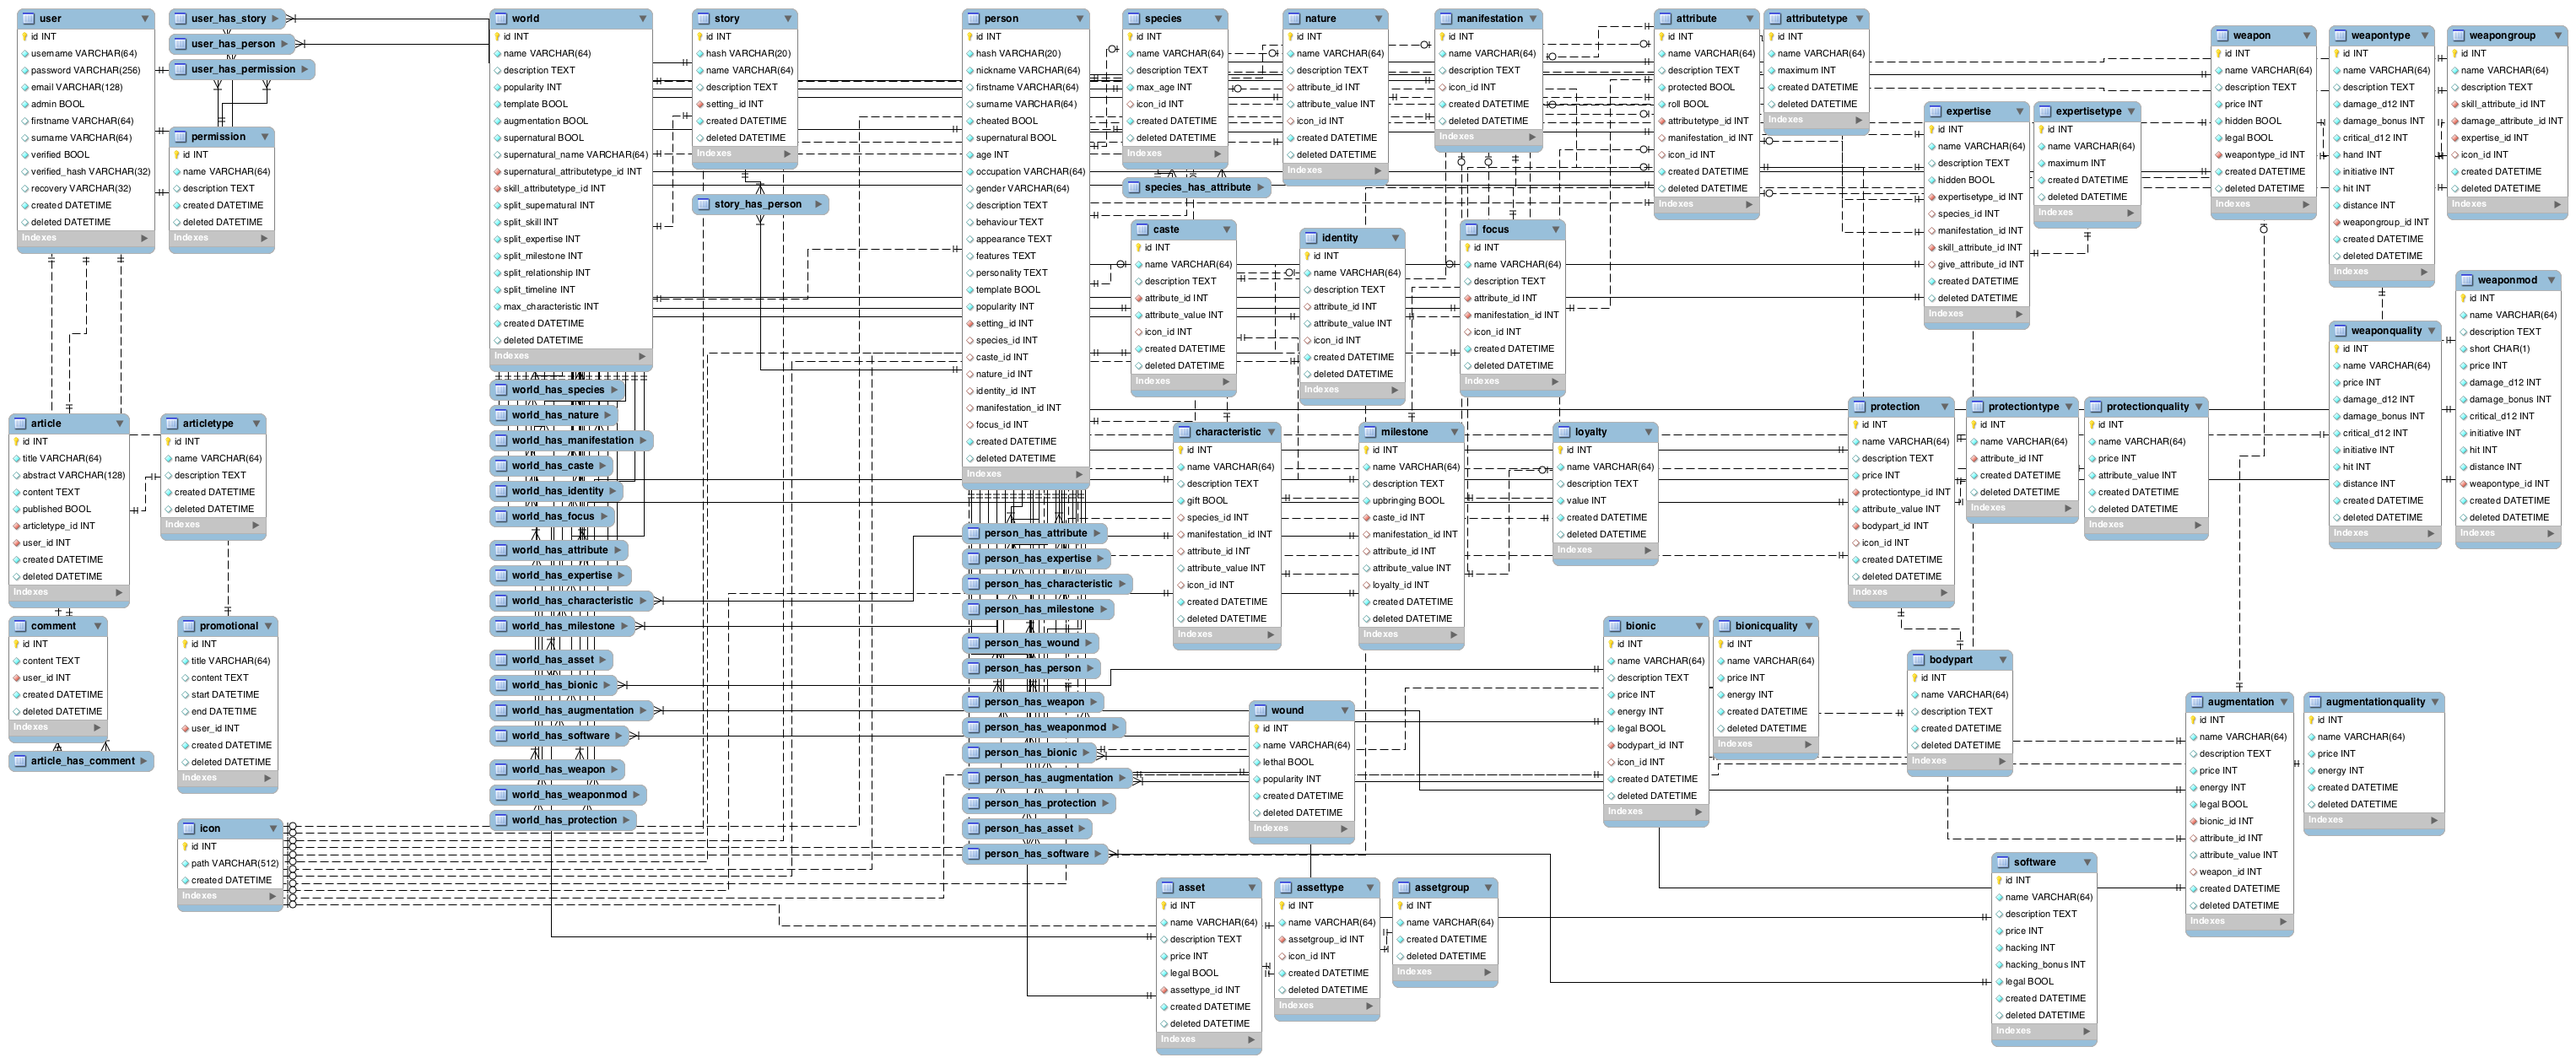
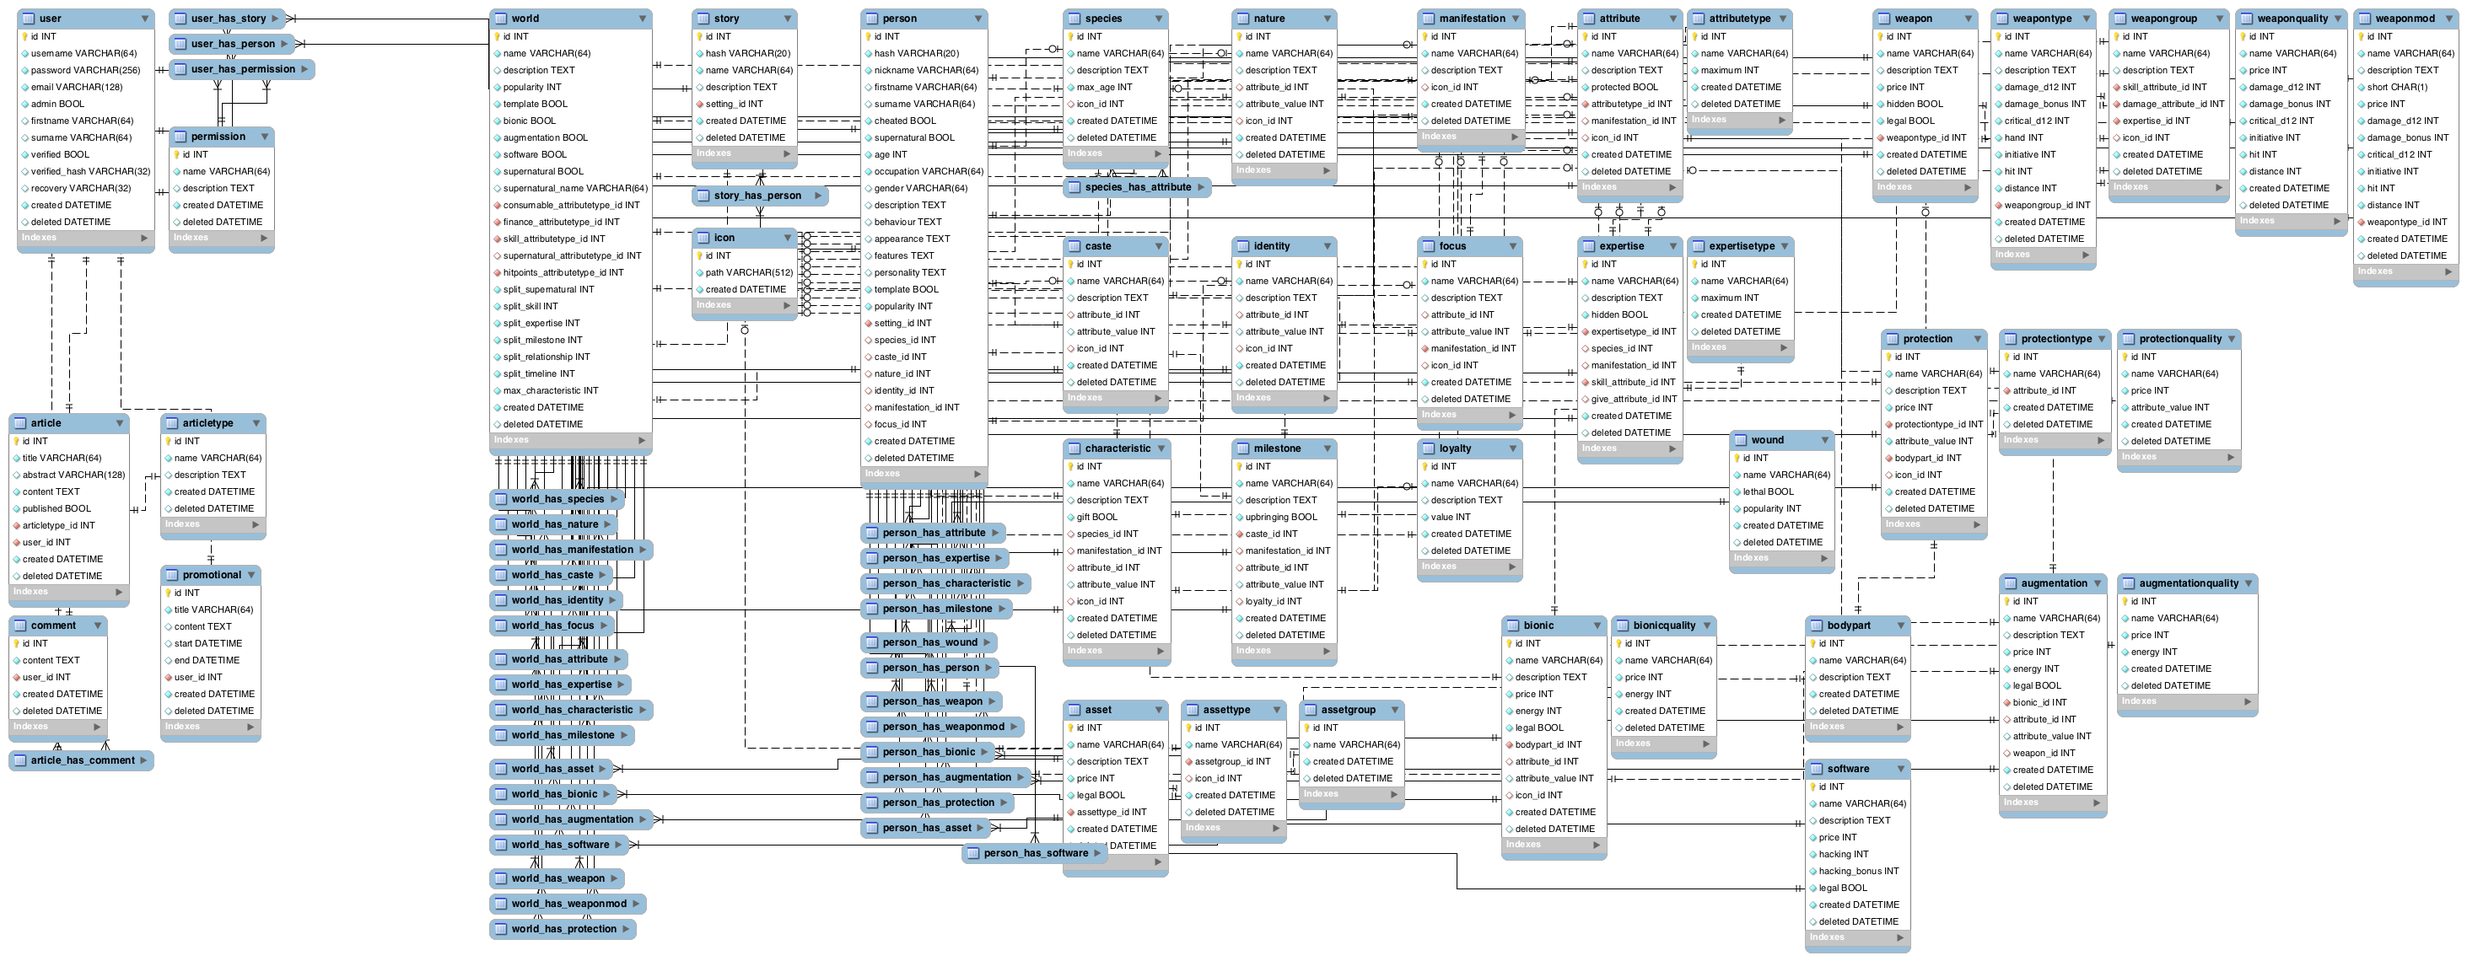
REST refactoring

diff --git a/app/rest.js b/app/rest.js
@@ -40,11 +40,11 @@ module.exports.queryMessage = queryMessage;
 
 // DEFAULT
 
-exports.HELP = function(pool, req, res, table) {
+exports.HELP =   function(pool, req, res, table) {
     queryDefault(pool, res, 'SHOW FULL COLUMNS FROM ' + table)
 };
 
-exports.QUERY = function(pool, req, res, call, params) {
+exports.QUERY =  function(pool, req, res, call, params) {
     params = params || null;
 
     if(params) {
@@ -54,7 +54,7 @@ exports.QUERY = function(pool, req, res, call, params) {
     queryDefault(pool, res, call);
 };
 
-exports.POST = function(pool, req, res, table) {
+exports.POST =   function(pool, req, res, table) {
     var body = req.body,
         rows = {},
         into = 'INSERT INTO ' + table + '(',
@@ -88,7 +88,10 @@ exports.POST = function(pool, req, res, table) {
     });
 };
 
-exports.PUT = function(pool, req, res, table, jsonObject) {
+exports.PUT =    function(pool, req, res, table, options) {
+    var where = options.where || {id: req.params.id },
+        update = options.update || true;
+
     var body = req.body,
         rows = {},
         call = 'UPDATE ' + table + ' SET ';
@@ -101,12 +104,15 @@ exports.PUT = function(pool, req, res, table, jsonObject) {
     }
 
     call = call.slice(0, -2);
+
+    if(update) {
+        call += ', updated = CURRENT_TIMESTAMP';
+    }
+
     call += ' WHERE ';
 
-    jsonObject = jsonObject || {id: req.params.id};
-
-    for (var key in jsonObject) {
-        call += table + '.' + key + ' = \'' + jsonObject[key] + '\' AND ';
+    for (var key in where) {
+        call += table + '.' + key + ' = \'' + where[key] + '\' AND ';
     }
 
     call = call.slice(0, -5);
@@ -157,13 +163,16 @@ exports.INSERT = function(pool, req, res, table) {
     });
 };
 
-exports.DELETE = function(pool, req, res, table, jsonObject) {
-    var call = 'UPDATE ' + table + ' SET deleted = CURRENT_TIMESTAMP WHERE ';
+exports.DELETE = function(pool, req, res, table, options) {
+    var where = options.where || {id: req.params.id},
+        timestamp = options.timestamp || true;
 
-    jsonObject = jsonObject || {id: req.params.id};
+    var call = timestamp
+        ? 'UPDATE ' + table + ' SET deleted = CURRENT_TIMESTAMP WHERE '
+        : 'DELETE FROM ' + table + ' WHERE ';
 
-    for (var key in jsonObject) {
-        call += key + ' = \'' + jsonObject[key] + '\' AND ';
+    for (var key in where) {
+        call += key + ' = \'' + where[key] + '\' AND ';
     }
 
     call = call.slice(0, -5);
@@ -171,30 +180,19 @@ exports.DELETE = function(pool, req, res, table, jsonObject) {
     queryMessage(pool, res, call, 202, 'deleted');
 };
 
-exports.REVIVE = function(pool, req, res, table, jsonObject) {
-    var call = 'UPDATE ' + table + ' SET deleted = \'null\' WHERE ';
+exports.REVIVE = function(pool, req, res, table, options) {
+    var where = options.where || {id: req.params.id},
+        timestamp = options.timestamp || true;
 
-    jsonObject = jsonObject || {id: req.params.id};
+    var call = timestamp
+        ? 'UPDATE ' + table + ' SET deleted = \'null\', updated = CURRENT_TIMESTAMP WHERE '
+        : 'UPDATE ' + table + ' SET deleted = \'null\' WHERE ';
 
-    for (var key in jsonObject) {
-        call += key + ' = \'' + jsonObject[key] + '\' AND ';
+    for (var key in where) {
+        call += key + ' = \'' + where[key] + '\' AND ';
     }
 
     call = call.slice(0, -5);
 
     queryMessage(pool, res, call, 200, 'revived');
-};
-
-exports.REMOVE = function(pool, req, res, table, jsonObject) {
-    var call = 'DELETE from ' + table + ' WHERE ';
-
-    jsonObject = jsonObject || {id: req.params.id};
-
-    for (var key in jsonObject) {
-        call += key + ' = \'' + jsonObject[key] + '\' AND ';
-    }
-
-    call = call.slice(0, -5);
-
-    queryMessage(pool, res, call, 202, 'removed');
 };

diff --git a/app/world/world.js b/app/world/world.js
@@ -13,10 +13,14 @@ module.exports = function(pool, router, table, path) {
         'world.software, ' +
         'world.supernatural, ' +
         'world.supernatural_name, ' +
-        'world.supernatural_attributetype_id, ' +
-        'a1.name AS supernatural_attributetype_name, ' +
+        'world.consumable_attributetype_id, ' +
+        'a1.name AS consumable_attributetype_name, ' +
+        'world.finance_attributetype_id, ' +
+        'a2.name AS finance_attributetype_name, ' +
         'world.skill_attributetype_id, ' +
-        'a2.name AS skill_attributetype_name, ' +
+        'a3.name AS skill_attributetype_name, ' +
+        'world.supernatural_attributetype_id, ' +
+        'a4.name AS supernatural_attributetype_name, ' +
         'world.split_supernatural, ' +
         'world.split_skill, ' +
         'world.split_expertise, ' +
@@ -27,8 +31,10 @@ module.exports = function(pool, router, table, path) {
         'world.created, ' +
         'world.deleted ' +
         'FROM world ' +
-        'LEFT JOIN attributetype a1 ON a1.id = world.supernatural_attributetype_id ' +
-        'LEFT JOIN attributetype a2 ON a2.id = world.skill_attributetype_id';
+        'LEFT JOIN attributetype a1 ON a1.id = world.consumable_attributetype_id ' +
+        'LEFT JOIN attributetype a2 ON a2.id = world.finance_attributetype_id ' +
+        'LEFT JOIN attributetype a3 ON a3.id = world.skill_attributetype_id ' +
+        'LEFT JOIN attributetype a4 ON a4.id = world.supernatural_attributetype_id';
 
     require('./../default')(pool, router, table, path, query);
 };

diff --git a/app/person/person_has_bionic.js b/app/person/person_has_bionic.js
@@ -12,6 +12,9 @@ module.exports = function(pool, router, table, path) {
         'bionic.legal, ' +
         'bionic.bodypart_id, ' +
         'bodypart.name AS bodypart_name, ' +
+        'bionic.attribute_id, ' +
+        'attribute.name AS attribute_name, ' +
+        'bionic.attribute_value, ' +
         'person_has_bionic.bionicquality_id AS quality_id, ' +
         'bionicquality.name AS quality_name, ' +
         'bionicquality.price AS quality_price, ' +
@@ -20,6 +23,7 @@ module.exports = function(pool, router, table, path) {
         'FROM person_has_bionic ' +
         'LEFT JOIN bionic ON bionic.id = person_has_bionic.bionic_id ' +
         'LEFT JOIN bodypart ON bodypart.id = bionic.bodypart_id ' +
+        'LEFT JOIN attribute ON attribute.id = bionic.attribute_id ' +
         'LEFT JOIN bionicquality ON bionicquality.id = person_has_bionic.bionicquality_id ' +
         'LEFT JOIN icon ON icon.id = bionic.icon_id';
 
@@ -40,11 +44,11 @@ module.exports = function(pool, router, table, path) {
     });
 
     router.delete(path + '/id/:id1/id/:id2', function(req, res) {
-        var call = {
+        var where = {
             "person_id": req.params.id1,
             "bionic_id": req.params.id2
         };
 
-        rest.REMOVE(pool, req, res, table, call);
+        rest.DELETE(pool, req, res, table, {where: where, timestamp: false});
     });
 };

diff --git a/app/person/person.js b/app/person/person.js
@@ -26,8 +26,10 @@ module.exports = function(pool, router, table, path) {
         'world.name AS world_name, ' +
         'world.description AS world_description, ' +
         'world.supernatural_name AS world_supernatural_name, ' +
-        'world.supernatural_attributetype_id AS world_supernatural_attributetype_id, ' +
+        'world.consumable_attributetype_id AS world_consumable_attributetype_id, ' +
         'world.skill_attributetype_id AS world_skill_attributetype_id, ' +
+        'world.supernatural_attributetype_id AS world_supernatural_attributetype_id, ' +
+        'world.hitpoints_attributetype_id AS world_hitpoints_attributetype_id, ' +
 
         'person.species_id, ' +
         'species.name AS species_name, ' +
@@ -128,11 +130,11 @@ module.exports = function(pool, router, table, path) {
         if (req.body.hash) {
             res.status(403).send({header: 'HASH error', message: 'HASH cannot be changed'})
         } else {
-            rest.PUT(pool, req, res, table, {hash: req.params.id});
+            rest.PUT(pool, req, res, table, {where: {hash: req.params.id}});
         }
     });
 
     router.delete(path + '/hash/:id', function(req, res) {
-        rest.DELETE(pool, req, res, table, {hash: req.params.id});
+        rest.DELETE(pool, req, res, table, {where: {hash: req.params.id}});
     });
 };

diff --git a/app/world/world_has_attribute.js b/app/world/world_has_attribute.js
@@ -8,10 +8,9 @@ module.exports = function(pool, router, table, path) {
         'attribute.name, ' +
         'attribute.description, ' +
         'attribute.protected, ' +
-        'attribute.roll, ' +
-        'attributetype.maximum, ' +
         'attribute.attributetype_id, ' +
         'attributetype.name AS attributetype_name, ' +
+        'attributetype.maximum, ' +
         'attribute.manifestation_id, ' +
         'manifestation.name AS manifestation_name, ' +
         'attribute.icon_id, ' +
@@ -51,11 +50,11 @@ module.exports = function(pool, router, table, path) {
     });
 
     router.delete(path + '/id/:id1/id/:id2', function(req, res) {
-        var call = {
+        var where = {
             "world_id": req.params.id1,
             "attribute_id": req.params.id2
         };
 
-        rest.REMOVE(pool, req, res, table, call);
+        rest.DELETE(pool, req, res, table, {where: where, timestamp: false});
     });
 };

diff --git a/app/person/person_has_attribute.js b/app/person/person_has_attribute.js
@@ -9,6 +9,8 @@ module.exports = function(pool, router, table, path) {
         'person_has_attribute.value, ' +
         'attribute.description, ' +
         'attribute.protected, ' +
+        'attributetype.roll, ' +
+        'attributetype.consumable, ' +
         'attributetype.maximum, ' +
         'attribute.attributetype_id, ' +
         'attributetype.name AS attributetype_name, ' +
@@ -42,11 +44,11 @@ module.exports = function(pool, router, table, path) {
     });
 
     router.delete(path + '/id/:id1/id/:id2', function(req, res) {
-        var call = {
+        var where = {
             "person_id": req.params.id1,
             "attribute_id": req.params.id2
         };
 
-        rest.REMOVE(pool, req, res, table, call);
+        rest.DELETE(pool, req, res, table, {where: where, timestamp: false});
     });
 };

diff --git a/app/world/world_has_focus.js b/app/world/world_has_focus.js
@@ -9,6 +9,7 @@ module.exports = function(pool, router, table, path) {
         'focus.description, ' +
         'focus.attribute_id, ' +
         'attribute.name AS attribute_name, ' +
+        'focus.attribute_value, ' +
         'focus.manifestation_id, ' +
         'manifestation.name AS manifestation_name, ' +
         'focus.icon_id, ' +
@@ -47,11 +48,11 @@ module.exports = function(pool, router, table, path) {
     });
 
     router.delete(path + '/id/:id1/id/:id2', function(req, res) {
-        var call = {
+        var where = {
             "world_id": req.params.id1,
             "focus_id": req.params.id2
         };
 
-        rest.REMOVE(pool, req, res, table, call);
+        rest.DELETE(pool, req, res, table, {where: where, timestamp: false});
     });
 };

diff --git a/app/world/world_has_identity.js b/app/world/world_has_identity.js
@@ -9,6 +9,7 @@ module.exports = function(pool, router, table, path) {
         'identity.description, ' +
         'identity.attribute_id, ' +
         'attribute.name AS attribute_name, ' +
+        'identity.attribute_value, ' +
         'identity.icon_id, ' +
         'icon.path AS icon_path, ' +
         'identity.created, ' +
@@ -35,11 +36,11 @@ module.exports = function(pool, router, table, path) {
     });
 
     router.delete(path + '/id/:id1/id/:id2', function(req, res) {
-        var call = {
+        var where = {
             "world_id": req.params.id1,
             "identity_id": req.params.id2
         };
 
-        rest.REMOVE(pool, req, res, table, call);
+        rest.DELETE(pool, req, res, table, {where: where, timestamp: false});
     });
 };

diff --git a/app/world/world_has_nature.js b/app/world/world_has_nature.js
@@ -9,6 +9,7 @@ module.exports = function(pool, router, table, path) {
         'nature.description, ' +
         'nature.attribute_id, ' +
         'attribute.name AS attribute_name, ' +
+        'nature.attribute_value, ' +
         'nature.icon_id, ' +
         'icon.path AS icon_path, ' +
         'nature.created, ' +
@@ -35,11 +36,11 @@ module.exports = function(pool, router, table, path) {
     });
 
     router.delete(path + '/id/:id1/id/:id2', function(req, res) {
-        var call = {
+        var where = {
             "world_id": req.params.id1,
             "nature_id": req.params.id2
         };
 
-        rest.REMOVE(pool, req, res, table, call);
+        rest.DELETE(pool, req, res, table, {where: where, timestamp: false});
     });
 };

diff --git a/app/standard/bionic.js b/app/standard/bionic.js
@@ -12,12 +12,16 @@ module.exports = function(pool, router, table, path) {
         'bionic.legal, ' +
         'bionic.bodypart_id, ' +
         'bodypart.name AS bodypart_name, ' +
+        'bionic.attribute_id, ' +
+        'attribute.name AS attribute_name, ' +
+        'bionic.attribute_value, ' +
         'bionic.icon_id, ' +
         'icon.path AS icon_path, ' +
         'bionic.created, ' +
         'bionic.deleted ' +
         'FROM bionic ' +
         'LEFT JOIN bodypart ON bodypart.id = bionic.bodypart_id ' +
+        'LEFT JOIN attribute ON attribute.id = bionic.attribute_id ' +
         'LEFT JOIN icon ON icon.id = bionic.icon_id';
 
     require('./../default')(pool, router, table, path, query);

diff --git a/app/standard/story.js b/app/standard/story.js
@@ -52,11 +52,11 @@ module.exports = function(pool, router, table, path) {
         if (req.body.hash) {
             res.status(403).send({header: 'HASH error', message: 'HASH cannot be changed'})
         } else {
-            rest.PUT(pool, req, res, table, {hash: req.params.id});
+            rest.PUT(pool, req, res, table, {where: {hash: req.params.id}});
         }
     });
 
     router.delete(path + '/hash/:id', function(req, res) {
-        rest.DELETE(pool, req, res, table, {hash: req.params.id});
+        rest.DELETE(pool, req, res, table, {where: {hash: req.params.id}});
     });
 };

diff --git a/app/person/person_has_characteristic.js b/app/person/person_has_characteristic.js
@@ -39,11 +39,11 @@ module.exports = function(pool, router, table, path) {
     });
 
     router.delete(path + '/id/:id1/id/:id2', function(req, res) {
-        var call = {
+        var where = {
             "person_id": req.params.id1,
             "characteristic_id": req.params.id2
         };
 
-        rest.REMOVE(pool, req, res, table, call);
+        rest.REMOVE(pool, req, res, table, {where: where, timstamp: false});
     });
 };
